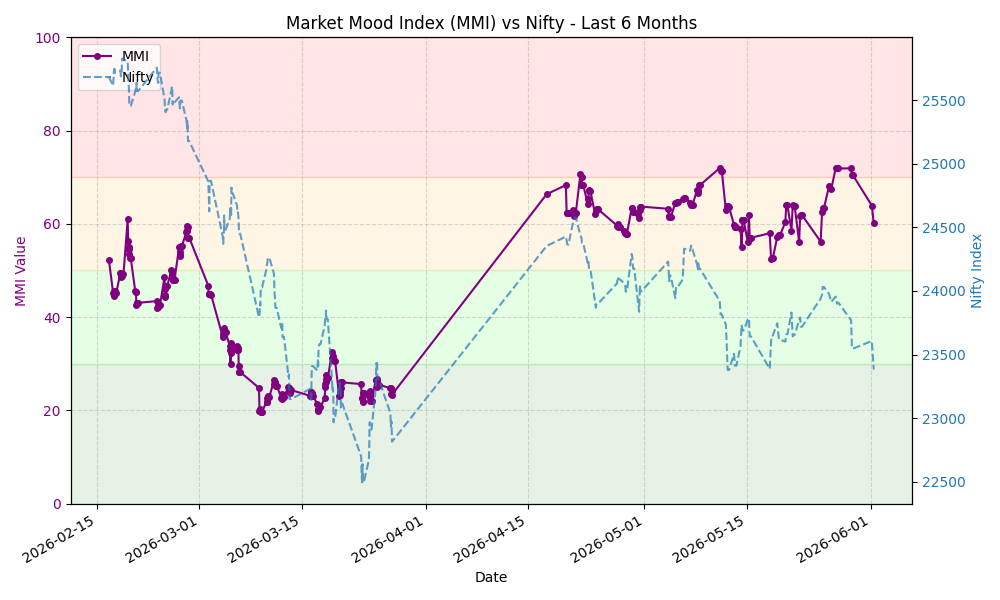
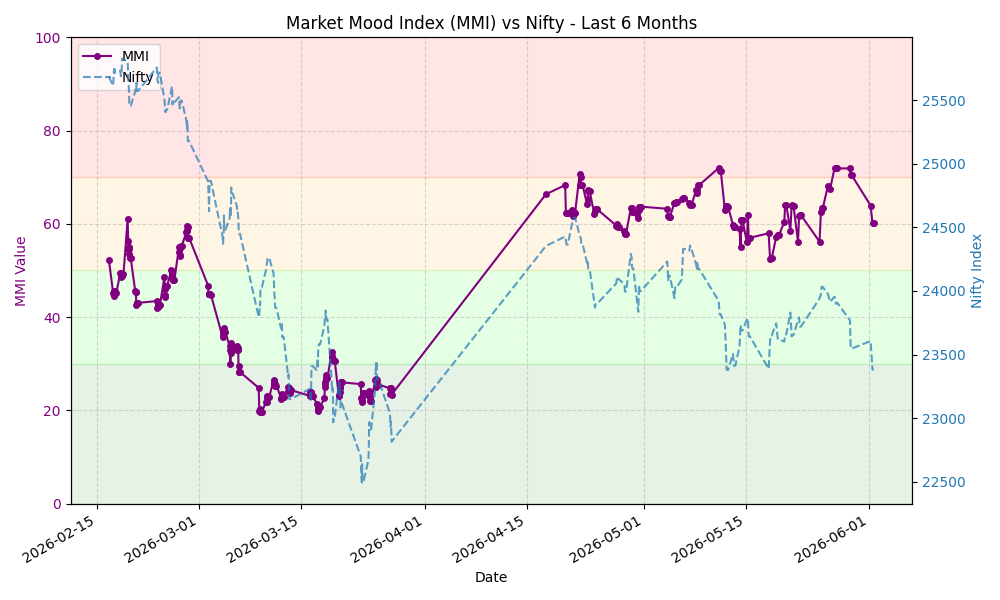
Update MMI data and chart

diff --git a/README.md b/README.md
@@ -7,8 +7,8 @@ This repository automatically fetches the MMI value, stores the history, and gen
 
 ## Latest MMI Value
 
-**60.07** - **Greed**
-<small>Last Updated: 2026-06-01 10:18 UTC</small>
+**60.08** - **Greed**
+<small>Last Updated: 2026-06-01 14:20 UTC</small>
 
 ## MMI Trend (Last 30 Days)
 